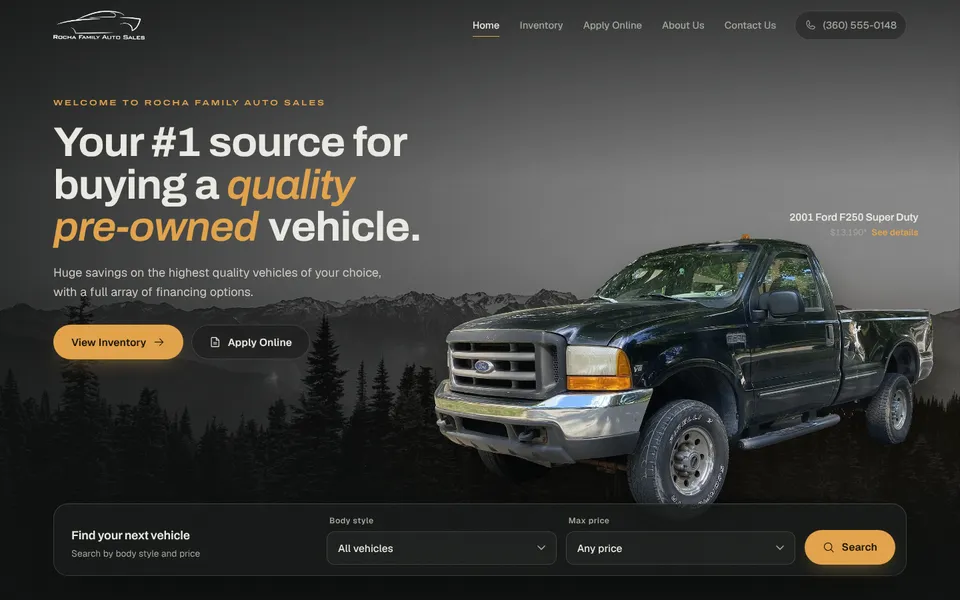
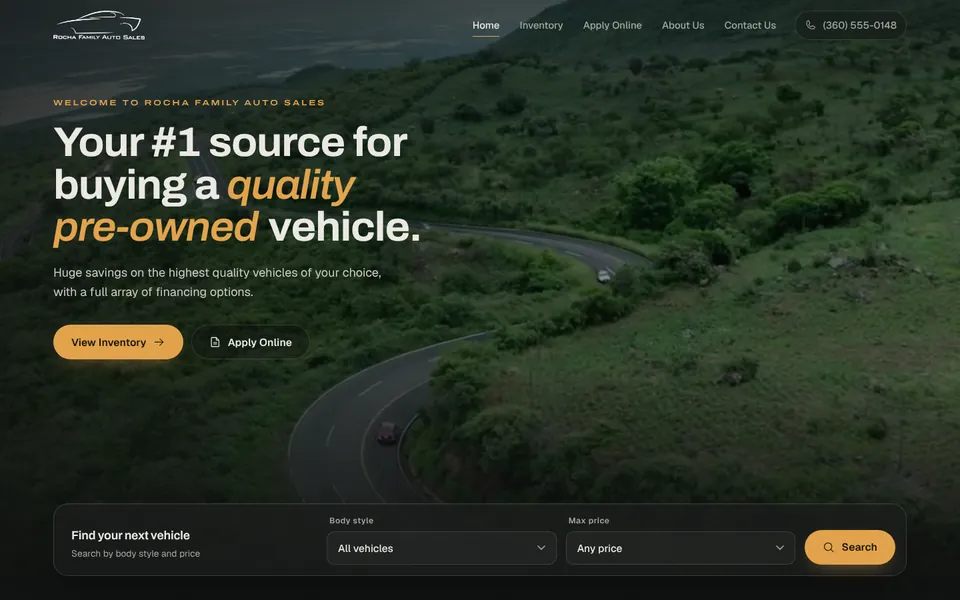
Retake Rocha's Recent Builds shot from its new video hero
Rocha's hero swapped the F250 photo for a looping driving video. The shot
is the aerial winding-road frame about 6 seconds in, the cleanest and
brightest moment behind the headline.

Claude-Session: https://claude.ai/code/session_01171NYwAWLrQepys5abLmRN

diff --git a/docs/RECENT-BUILDS.md b/docs/RECENT-BUILDS.md
@@ -81,8 +81,10 @@ amounts blurred or fake. Screenshots as full-size PNGs.
    hero that animates can be caught mid-change. Our own homepage swaps its
    headline for an animation a few seconds in, so shoot it with
    `reducedMotion: "reduce"`; H1's stat counter is clean about 1.5 seconds
-   after load.
+   after load. Rocha's hero is a looping driving video: about 6 seconds after
+   load it shows the aerial shot of the green winding road, the frame we use.
 3. With fewer than three builds and `showPlaceholders` on, "coming soon"
    boxes fill the row out to three.
 4. When a client's site changes, retake its shot the same way. All of them
-   were last refreshed on 2026-10-07.
+   were last refreshed on 2026-10-07 (Rocha's again later that day, after
+   its hero changed to a video).
